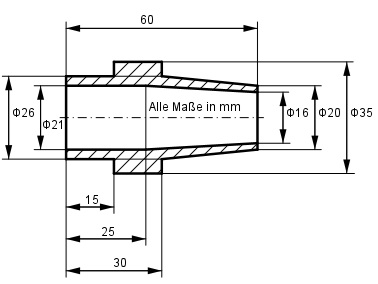
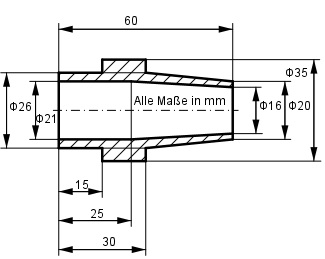
Add files via upload

Changed region(s): [[0.0, 0.0309, 0.9846, 0.9884]]

diff --git a/Volum_Aufgabe267.html b/Volum_Aufgabe267.html
@@ -29,7 +29,11 @@ Schindeln zu deckende Dachfläche A?
 
 V = <math ><mfrac><mi mathvariant="normal">3,5</mi><mn>3</mn></mfrac><mo>&#xd7;</mo><mfenced><mrow><msub><mi mathvariant="normal">G</mi><mn>1</mn></msub><mo>+</mo><msqrt><mrow><msup><msub><mi mathvariant="normal">G</mi><mn>1</mn></msub><mrow><mn>2</mn><mo>&#xa0;</mo></mrow></msup><mo>&#xd7;</mo><mo>&#xa0;</mo><msup><msub><mi mathvariant="normal">G</mi><mn>2</mn></msub><mn>2</mn></msup></mrow></msqrt><mo>+</mo><msub><mi>G</mi><mn>2</mn></msub></mrow></mfenced></math> m<sup>3</sup>
 
-V = <math ><mfrac><mrow><mn>3</mn><mo>,</mo><mn>5</mn></mrow><mn>3</mn></mfrac><mo>&#xd7;</mo><mfenced><mrow><mn>4</mn><mo>,</mo><mn>8</mn><mo>&#xd7;</mo><mn>3</mn><mo>,</mo><mn>2</mn><mo>&#xA0;</mo><mo>+</mo><msqrt><mrow><mn>4</mn><mo>,</mo><mn>8</mn><mo>&#xd7;</mo><mn>3</mn><mo>,</mo><mn>2</mn><mo>&#xd7;</mo><mn>3</mn><mo>,</mo><mn>6</mn><mo>&#xd7;</mo><mn>2</mn><mo>,</mo><mn>4</mn></mrow></msqrt><mo>+</mo><mn>3</mn><mo>,</mo><mn>6</mn><mo>&#xd7;</mo><mn>2</mn><mo>,</mo><mn>4</mn></mrow></mfenced><mo>&#xA0;</mo><msup><mi mathvariant="normal">m</mi><mn>3</mn></msup></math>
+     35
+V = ---- + (4,8 * 3,2 *
+     3
+
+* <math><msqrt><mrow><mn>4</mn><mo>,</mo><mn>8</mn><mo>&#xd7;</mo><mn>3</mn><mo>,</mo><mn>2</mn><mo>&#xd7;</mo><mn>3</mn><mo>,</mo><mn>6</mn><mo>&#xd7;</mo><mn>2</mn><mo>,</mo><mn>4</mn></mrow></msqrt><mo>+</mo><mn>3</mn><mo>,</mo><mn>6</mn><mo>&#xd7;</mo><mn>2</mn><mo>,</mo><mn>4</mn></mrow></mfenced><mo>&#xA0;</mo><msup><mi mathvariant="normal">m</mi><mn>3</mn></msup></math>      
 
      3,5  
 <span style="color:red;">V</span> = ----- * (15,36 + 11,52 + 8,64) m<sup>3</sup> <span style="color:red;">= 41,4 m<sup>3</sup></span> 
@@ -61,7 +65,7 @@ RT<sup>2</sup> = ST<sup>2</sup> + RS<sup>2</sup> = 3,5<sup>2</sup> m<sup>2</sup>
  
 RT = 3,52 m = Höhe der Seitenfläche ABEF: 
  
-          AB + EF               BC + FG      
+          AB + EF               BC + FG
 A = 2 * ---------- * RT + 2 * ----------- * OQ 
              2                     2  
  

diff --git a/Volum_Aufgabe286.html b/Volum_Aufgabe286.html
@@ -27,12 +27,12 @@ haben soll?
  
 Volumen V des Kegels: 
  
-      л * r<sup>2</sup> * h          
+      л * r<sup>2</sup> * h
 V = ------------- = 
-          3                     
+          3
           
-   л * 1,5<sup>2</sup> cm<sup>2</sup> * 5,5 cm       
-= ----------------------- = 12,95 cm<sup>3</sup>           
+   л * 1,5<sup>2</sup> cm<sup>2</sup> * 5,5 cm
+= ----------------------- = 12,95 cm<sup>3</sup>
               3   
  
 Volumen V<sub>1</sub> des Kegelstumpfes = V 

diff --git a/Volum_Aufgabe276.html b/Volum_Aufgabe276.html
@@ -30,7 +30,7 @@ Wie groß ist der Abfall A, wenn der Stumpf zu
 einer geraden Pyramide mit gleicher Grundfläche 
 abgeschliffen wird?  
 
-A = PStumpfvolumen V<sub>PS</sub> - Pyramidenvolumen V<sub>P</sub> 
+A = P<sub>Stumpfvolumen</sub> V<sub>PS</sub> - Pyramidenvolumen V<sub>P</sub> 
 
 Höhe der Grundfläche: 
 
